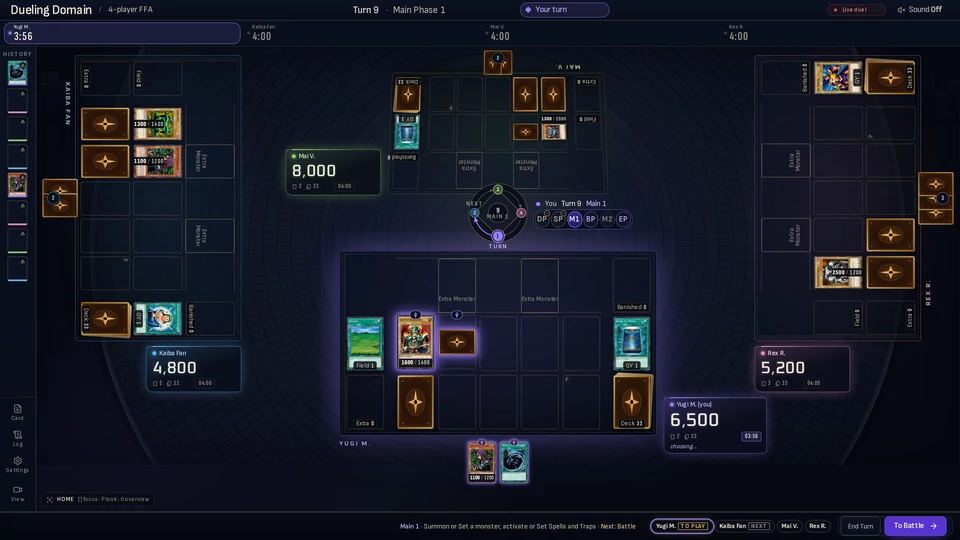
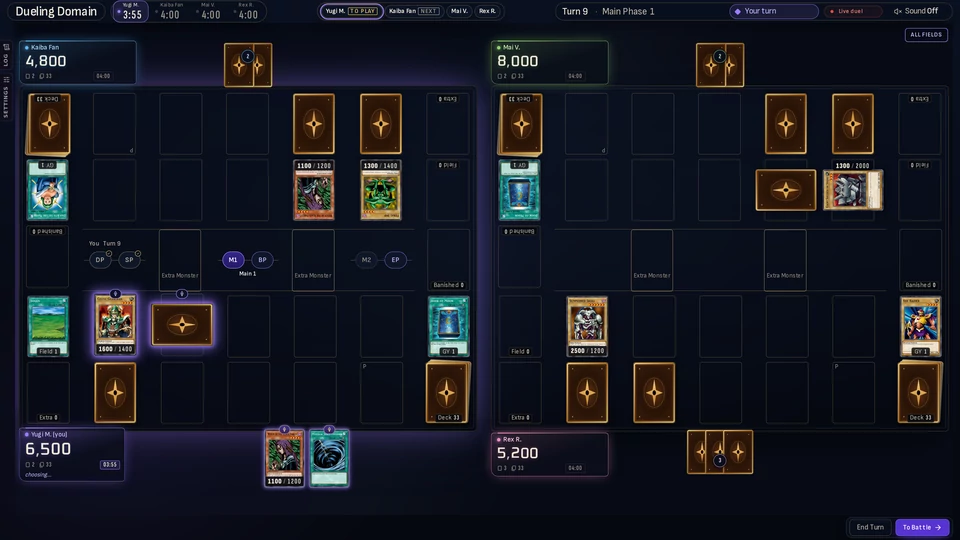
fix(site): 4-player and Tag shots use the current table layout; /updates matches the prod Updates board

diff --git a/site/public/4-player-yugioh.html b/site/public/4-player-yugioh.html
@@ -133,7 +133,7 @@
 <h1>4-player Yu-Gi-Oh! online</h1>
 <p class="answer">Dueling Domain lets you play 4-player Yu-Gi-Oh! online in your browser: four duelists at one table, each with their own Life Points, and the last duelist standing wins.</p>
 <p class="info-cta"><a class="btn" href="/#join">Join the waitlist</a></p>
-<figure class="info-fig"><img src="/assets/shot-4-player-table.webp" srcset="/assets/shot-4-player-table-960.webp 960w, /assets/shot-4-player-table.webp 1920w" sizes="(max-width: 860px) calc(100vw - 32px), 780px" alt="A four-player free-for-all duel in Dueling Domain, on turn 9 in the Main Phase. Yugi M. at the bottom has Life Points 6,500, one monster, a Set monster, a Set card and a Field Spell. Kaiba Fan (4,800), Mai V. (8,000) and Rex R. (5,200) each hold their own field and Graveyard." width="1920" height="1080" loading="lazy" decoding="async"><figcaption>A 4-player table in the closed alpha. The players and boards are sample data.</figcaption></figure><figure class="info-fig"><a href="https://www.youtube.com/watch?v=9CahDbFr0jA" rel="noopener"><img src="/assets/arena-poster.webp" alt="A card table for several players, drawn with original card backs." width="1440" height="900" loading="lazy" decoding="async"></a><figcaption>Launch trailer poster. The trailer is 73 seconds long and opens on YouTube.</figcaption></figure>
+<figure class="info-fig"><img src="/assets/shot-4-player-table.webp" srcset="/assets/shot-4-player-table-960.webp 960w, /assets/shot-4-player-table.webp 1920w" sizes="(max-width: 860px) calc(100vw - 32px), 780px" alt="A four-player free-for-all duel in Dueling Domain, on turn 9 in the Main Phase. The four fields sit in a two-by-two grid, so each duelist faces the duelist across from them. Yugi M. at the bottom left has Life Points 6,500, one monster, a Set monster, a Set card and a Field Spell, and faces Kaiba Fan (4,800) at the top left. Mai V. (8,000) and Rex R. (5,200) sit on the right. Each one has their own Graveyard." width="1920" height="1080" loading="lazy" decoding="async"><figcaption>A 4-player table in the closed alpha. The players and boards are sample data.</figcaption></figure><figure class="info-fig"><a href="https://www.youtube.com/watch?v=9CahDbFr0jA" rel="noopener"><img src="/assets/arena-poster.webp" alt="A card table for several players, drawn with original card backs." width="1440" height="900" loading="lazy" decoding="async"></a><figcaption>Launch trailer poster. The trailer is 73 seconds long and opens on YouTube.</figcaption></figure>
 
 <h2>How a 4-player table works</h2>
 <p>A free-for-all table seats four duelists. Everyone starts with 8,000 Life Points by default, and nobody shares them. You win when every other duelist is out. Three-player tables work the same way with one seat fewer.</p>

diff --git a/site/public/yugioh-tag-duel-online.html b/site/public/yugioh-tag-duel-online.html
@@ -116,7 +116,7 @@
 <h1>Yu-Gi-Oh! Tag duel online</h1>
 <p class="answer">Dueling Domain runs 2v2 Yu-Gi-Oh! Tag duels online in your browser: two teams of two, with one shared pool of Life Points for each team.</p>
 <p class="info-cta"><a class="btn" href="/#join">Join the waitlist</a></p>
-<figure class="info-fig"><img src="/assets/shot-tag-table.webp" srcset="/assets/shot-tag-table-960.webp 960w, /assets/shot-tag-table.webp 1920w" sizes="(max-width: 860px) calc(100vw - 32px), 780px" alt="A 2v2 Tag duel in Dueling Domain, on turn 9 in the Main Phase. Yugi M. and Mai V. (team 1, 12,300 shared Life Points) face Kaiba Fan and Rex R. (team 2, 9,500). Each duelist has their own field, and Yugi M. sees the hand of Mai V. in a panel that says only the team sees it." width="1920" height="1080" loading="lazy" decoding="async"><figcaption>A 2v2 Tag table in the closed alpha. The players and boards are sample data.</figcaption></figure>
+<figure class="info-fig"><img src="/assets/shot-tag-table.webp" srcset="/assets/shot-tag-table-960.webp 960w, /assets/shot-tag-table.webp 1920w" sizes="(max-width: 860px) calc(100vw - 32px), 780px" alt="A 2v2 Tag duel in Dueling Domain, on turn 9 in the Main Phase. Yugi M. and Mai V. (team 1, 12,300 shared Life Points) face Kaiba Fan and Rex R. (team 2, 9,500). Each duelist has their own field, the facing duelists share the middle Extra Monster Zones, and Yugi M. sees the hand of Mai V. in a panel that says only the team sees it." width="1920" height="1080" loading="lazy" decoding="async"><figcaption>A 2v2 Tag table in the closed alpha. The players and boards are sample data.</figcaption></figure>
 
 <h2>The Tag rules we use</h2>
 <p>A Tag table seats four duelists in two teams. The rules are written down, and the engine applies them for you.</p>

diff --git a/site/public/updates.html b/site/public/updates.html
@@ -137,6 +137,7 @@
 <li>Play speed. In any simulated duel, open Options and set Animation speed from 50% to 200%. 100% is normal. It is your own setting: it changes only the animations on your screen, so you can play faster or slower. It is kept for your next duels.</li>
 <li>Updates board. A chip next to Report bug shows the latest version. A red dot means you have not read it yet. You can read older notes there too.</li>
 <li>Better replays. Replays now play like live watching. The board keeps one size, and each move waits for its animation. A speed control goes from slow to fast. A battle log lists every move. Select a row to jump to it. The speed control also works in Tag and Free-for-all replays. In a finished duel, its players can show all cards.</li>
+<li>Coming next. This is a small update with improvements and fixes. A much bigger update is coming soon. We have worked on it for the last month, and it is for everyone who likes to play with their shiny cardboard. ✨</li>
 </ul>
 <h3>Improvements</h3>
 <ul>

diff --git a/site/src/pages.py b/site/src/pages.py
@@ -20,7 +20,7 @@ PAGES = [
         'answer': 'Dueling Domain lets you play 4-player @GAME@ online in your browser: four duelists at one table, each with their own Life Points, and the last duelist standing wins.',
         'video': True,
         'shot': ('/assets/shot-4-player-table.webp', 1920, 1080,
-                 'A four-player free-for-all duel in Dueling Domain, on turn 9 in the Main Phase. Yugi M. at the bottom has Life Points 6,500, one monster, a Set monster, a Set card and a Field Spell. Kaiba Fan (4,800), Mai V. (8,000) and Rex R. (5,200) each hold their own field and Graveyard.',
+                 'A four-player free-for-all duel in Dueling Domain, on turn 9 in the Main Phase. The four fields sit in a two-by-two grid, so each duelist faces the duelist across from them. Yugi M. at the bottom left has Life Points 6,500, one monster, a Set monster, a Set card and a Field Spell, and faces Kaiba Fan (4,800) at the top left. Mai V. (8,000) and Rex R. (5,200) sit on the right. Each one has their own Graveyard.',
                  'A 4-player table in the closed alpha. The players and boards are sample data.'),
         'figure': ('A card table for several players, drawn with original card backs.',
                    'Launch trailer poster. The trailer is 73 seconds long and opens on YouTube.'),
@@ -63,7 +63,7 @@ PAGES = [
         'h1': '@GAME@ Tag duel online',
         'answer': 'Dueling Domain runs 2v2 @GAME@ Tag duels online in your browser: two teams of two, with one shared pool of Life Points for each team.',
         'shot': ('/assets/shot-tag-table.webp', 1920, 1080,
-                 'A 2v2 Tag duel in Dueling Domain, on turn 9 in the Main Phase. Yugi M. and Mai V. (team 1, 12,300 shared Life Points) face Kaiba Fan and Rex R. (team 2, 9,500). Each duelist has their own field, and Yugi M. sees the hand of Mai V. in a panel that says only the team sees it.',
+                 'A 2v2 Tag duel in Dueling Domain, on turn 9 in the Main Phase. Yugi M. and Mai V. (team 1, 12,300 shared Life Points) face Kaiba Fan and Rex R. (team 2, 9,500). Each duelist has their own field, the facing duelists share the middle Extra Monster Zones, and Yugi M. sees the hand of Mai V. in a panel that says only the team sees it.',
                  'A 2v2 Tag table in the closed alpha. The players and boards are sample data.'),
         'figure': ('A card table for several players, drawn with original card backs.',
                    'Poster art for the launch trailer.'),

diff --git a/packages/e2e/screenshots/README.md b/packages/e2e/screenshots/README.md
@@ -25,9 +25,12 @@ The PNG files land in `packages/e2e/.stack-<slot>/screenshots/` (or `SHOT_DIR`).
 - Real card art: the script sets `E2E_REAL_CARD_ART=1`. The stack then fetches art from images.ygoprodeck.com through the normal image route
   into its own `.stack-<slot>/card-images` folder. Without the flag the stack serves a stub image (grey cards). The art is in the screenshots only, never as site assets of its own.
 - The engine data folder is a scratch copy: copy a prepared data dir and run `DUEL_DATA_DIR=<copy> npm run duel:prepare` on it. Never point it at the live data folder.
+  Its `ocgcore.multi.SOURCE` must list `capabilities=...ffa4-facing-extra-zones...` (a deploy or local-main multi core does). Without it the engine does not report the shared Extra Monster Zones, the table refuses the 4-way grid and draws the old plaza layout; the script stops in that case.
 
 Look at every WebP before you commit it (real names only, no emails, ids or debug labels). Then add or change the file through its `shot` entry in `site/src/pages.py`.
 ## Board ledgers
+
+Layout: the 4-player shot is the 4-way 2x2 grid (me bottom left, my facing seat top left, the other pair on the right, camera on the full table) and the Tag shot has the shared middle Extra Monster Zones. Both need a multi core that reports `capabilities` (see the engine data folder note above); an old local core gives the plaza layout and per-player Extra Monster Zones instead.
 
 The boards are set up with the board DSL (`packages/duel-server/src/presets/board.ts`) and then played forward with real turns
 (`playToTurn` in `boards.spec.ts` passes the other seats' turns through `POST /api/duels/<slug>/actions`), so the turn counter, the draws and the phase are real engine state.
